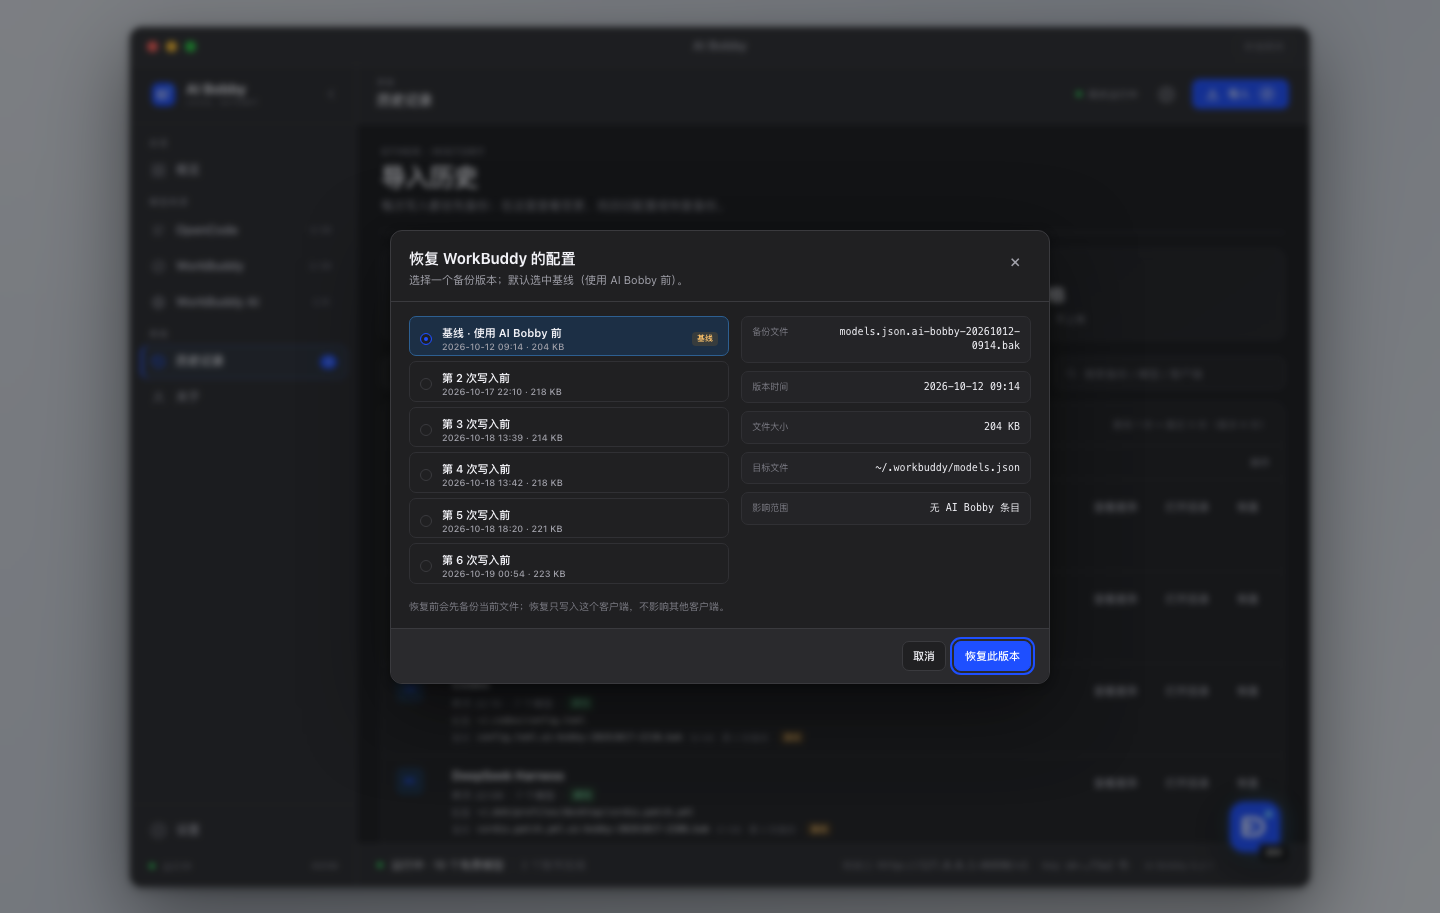
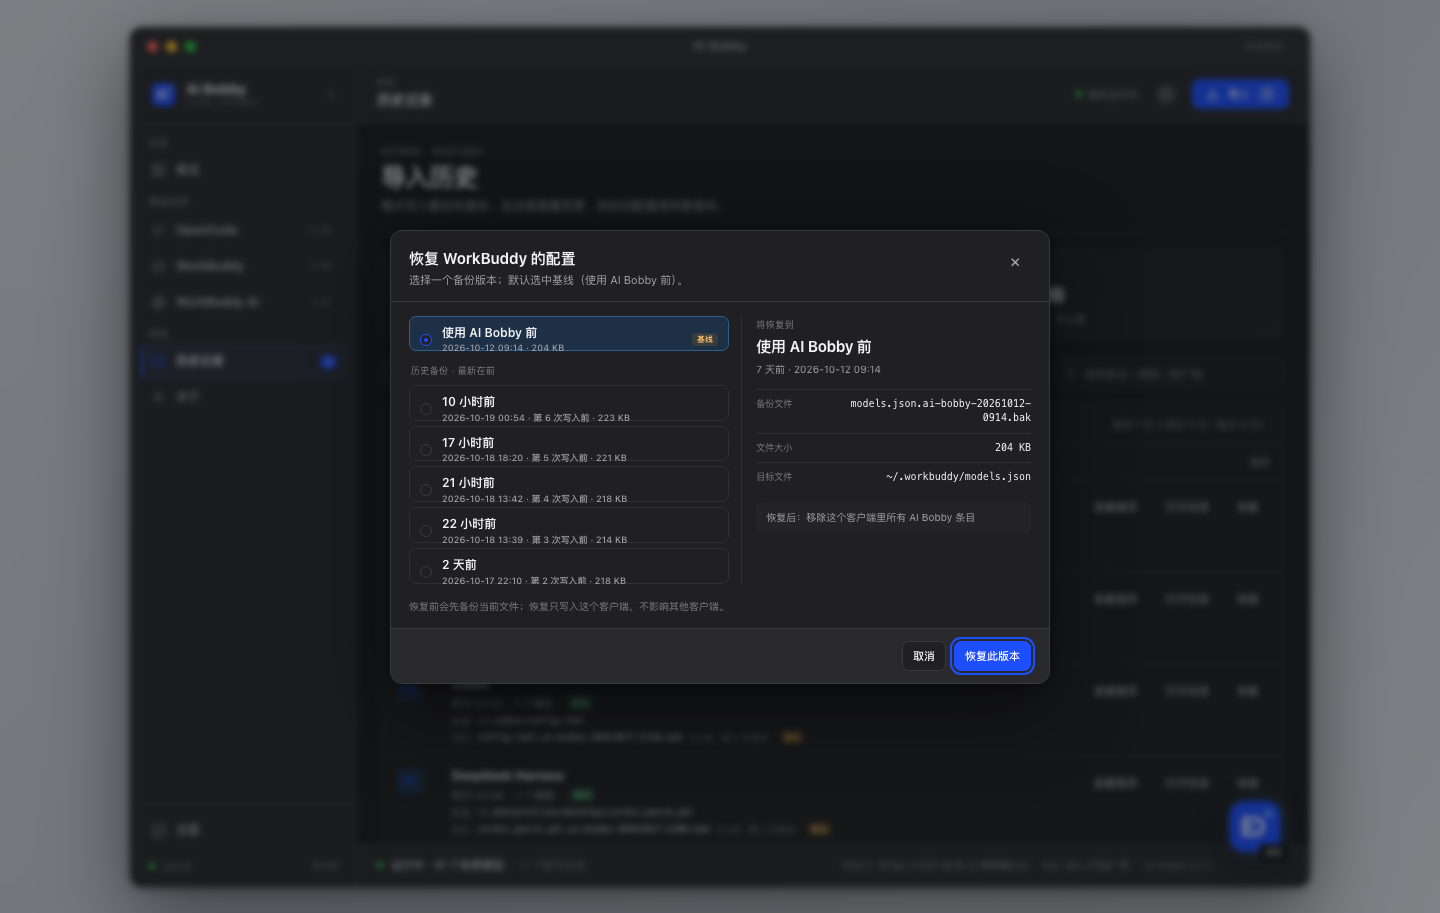
design(prototype): rework restore dialog hierarchy and relative times
- Pin the baseline, sort rolling backups newest-first under a divider, and
  lead each row with a friendly relative time while keeping the absolute
  timestamp as secondary information.
- Replace the boxed detail rows with a summary panel (将恢复到 + big title +
  time + key/value facts + outcome note), visually separated from the list so
  it no longer reads as more backup entries.
- Refresh the restore screenshot.

diff --git a/prototype/desktop/app.js b/prototype/desktop/app.js
@@ -570,14 +570,30 @@
     ],
   };
 
+  function relativeTime(at) {
+    const then = new Date(String(at).replace(' ', 'T')).getTime();
+    if (!Number.isFinite(then)) return '';
+    const minutes = Math.max(0, Math.round((Date.now() - then) / 60000));
+    if (minutes < 1) return '刚刚';
+    if (minutes < 60) return `${minutes} 分钟前`;
+    const hours = Math.round(minutes / 60);
+    if (hours < 24) return `${hours} 小时前`;
+    if (hours < 36) return '昨天';
+    return `${Math.round(hours / 24)} 天前`;
+  }
+
   function versionsFor(record) {
     const set = BACKUP_SETS[record.client] || BACKUP_SETS.workbuddy;
-    return set.map((version, index) => ({
+    const versions = set.map((version, index) => ({
       id: `${record.client}-v${index}`,
-      label: index === 0 ? '基线 · 使用 AI Bobby 前' : `第 ${index + 1} 次写入前`,
+      label: version.baseline ? '使用 AI Bobby 前' : `第 ${index + 1} 次写入前`,
+      relative: relativeTime(version.at),
       target: record.target,
       ...version,
     }));
+    const baseline = versions[0];
+    const rolling = versions.slice(1).sort((a, b) => String(b.at).localeCompare(String(a.at)));
+    return [baseline, ...rolling];
   }
 
   function openRestore(record) {
@@ -594,20 +610,37 @@
 
   function renderRestoreVersions() {
     const versions = state.restoreVersions;
-    $('#restore-versions').innerHTML = versions.map(version => `
+    const baseline = versions.find(version => version.baseline);
+    const rolling = versions.filter(version => !version.baseline);
+    const row = version => `
       <button type="button" class="restore-version${version.id === state.selectedVersion ? ' selected' : ''}" data-version="${version.id}" role="radio" aria-checked="${version.id === state.selectedVersion}">
         <span class="restore-radio" aria-hidden="true"></span>
-        <span><strong>${escapeHtml(version.label)}</strong><small>${escapeHtml(version.at)} · ${escapeHtml(version.size)}</small></span>
-        ${version.baseline ? '<span class="chip baseline">基线</span>' : '<span></span>'}
-      </button>`).join('');
+        <span class="restore-version-copy">
+          <strong>${escapeHtml(version.baseline ? version.label : version.relative)}</strong>
+          <small>${escapeHtml(version.at)}${version.baseline ? '' : ` · ${escapeHtml(version.label)}`} · ${escapeHtml(version.size)}</small>
+        </span>
+        ${version.baseline ? '<span class="chip baseline">基线</span>' : ''}
+      </button>`;
+    $('#restore-versions').innerHTML = [
+      baseline ? row(baseline) : '',
+      rolling.length > 0 ? '<div class="restore-divider">历史备份 · 最新在前</div>' : '',
+      ...rolling.map(row),
+    ].join('');
+
     const selected = versions.find(version => version.id === state.selectedVersion) || versions[0];
     if (!selected) return;
     $('#restore-details').innerHTML = `
-      <div class="restore-detail"><span>备份文件</span><code>${escapeHtml(selected.file)}</code></div>
-      <div class="restore-detail"><span>版本时间</span><strong>${escapeHtml(selected.at)}</strong></div>
-      <div class="restore-detail"><span>文件大小</span><strong>${escapeHtml(selected.size)}</strong></div>
-      <div class="restore-detail"><span>目标文件</span><code>${escapeHtml(selected.target)}</code></div>
-      <div class="restore-detail"><span>影响范围</span><strong>${selected.baseline ? '无 AI Bobby 条目' : `${selected.models} 个 AI Bobby 模型`}</strong></div>`;
+      <div class="restore-summary">
+        <span class="restore-summary-label">将恢复到</span>
+        <strong class="restore-summary-title">${escapeHtml(selected.baseline ? '使用 AI Bobby 前' : selected.label)}</strong>
+        <span class="restore-summary-when">${escapeHtml(selected.relative)} · ${escapeHtml(selected.at)}</span>
+        <dl class="restore-facts">
+          <div><dt>备份文件</dt><dd>${escapeHtml(selected.file)}</dd></div>
+          <div><dt>文件大小</dt><dd>${escapeHtml(selected.size)}</dd></div>
+          <div><dt>目标文件</dt><dd>${escapeHtml(selected.target)}</dd></div>
+        </dl>
+        <p class="restore-outcome">${selected.baseline ? '恢复后：移除这个客户端里所有 AI Bobby 条目' : `恢复后：写入 ${selected.models} 个 AI Bobby 模型（该次写入前的状态）`}</p>
+      </div>`;
   }
 
   function closeRestore() {

diff --git a/prototype/desktop/styles.css b/prototype/desktop/styles.css
@@ -1861,3 +1861,44 @@ a.music-album-card .album-arrow { margin-left: auto; color: var(--accent); font-
 @media (max-width: 760px) {
   .restore-body { grid-template-columns: 1fr; }
 }
+
+/* Restore dialog v2: list hierarchy + summary panel */
+.restore-details { padding-left: 14px; border-left: 1px solid var(--line-soft); }
+.restore-divider {
+  margin: 8px 2px 2px;
+  color: var(--faint);
+  font-size: 9px;
+  letter-spacing: 0.04em;
+}
+.restore-version-copy { min-width: 0; }
+.restore-version strong { font-size: 12px; }
+.restore-summary { display: flex; flex-direction: column; gap: 4px; padding-top: 2px; }
+.restore-summary-label { color: var(--faint); font-size: 9px; letter-spacing: 0.06em; }
+.restore-summary-title { color: var(--text); font-size: 15px; font-weight: 650; letter-spacing: -0.01em; }
+.restore-summary-when { color: var(--muted); font-size: 10px; }
+.restore-facts { margin: 8px 0 0; }
+.restore-facts > div {
+  display: flex;
+  justify-content: space-between;
+  gap: 14px;
+  padding: 7px 0;
+  border-top: 1px solid var(--line-soft);
+}
+.restore-facts dt { color: var(--faint); font-size: 9px; white-space: nowrap; }
+.restore-facts dd {
+  margin: 0;
+  min-width: 0;
+  color: var(--text);
+  font: 10px/1.45 var(--mono);
+  text-align: right;
+  overflow-wrap: anywhere;
+}
+.restore-outcome {
+  margin: 6px 0 0;
+  padding: 8px 10px;
+  border-radius: 6px;
+  background: var(--surface-2);
+  color: var(--muted);
+  font-size: 10px;
+  line-height: 1.5;
+}

diff --git a/prototype/desktop/README.md b/prototype/desktop/README.md
@@ -25,8 +25,9 @@ python3 -m http.server 8765 --bind 127.0.0.1
 - 音乐播放在点击歌曲后出现于右下角，作为全局单例播放器；可拖动、可关闭，不阻塞页面。
 - 历史记录：导入记录与备份合并为一张表，行内四行信息（客户端 / 日期·模型数·状态 / 配置文件 / 备份文件），
   操作为“查看差异 / 打开目录 / 恢复”（三个统一的 ghost 按钮），不再使用含义不清的“变更”；最早记录标“基线”。
-- 恢复弹窗列出该目标的所有备份（1 份基线 + 最近 5 份），默认选中基线（无 AI Bobby 配置），
-  切换版本时右侧明细同步变化。
+- 恢复弹窗：基线固定在最上，其余按时间倒序；备份时间用“10 小时前 / 2 天前”这类友好表达，
+  绝对时间作为次要信息；默认选中基线（无 AI Bobby 配置），右侧是“将恢复到”的摘要面板
+  （标题 + 时间 + 键值明细 + 恢复后影响），与左侧可点列表形成层级，不再是一堆并列卡片。
 - 按钮系统：默认（次要）白底描边、`primary` 主操作、`ghost` 行内低频操作；字号/高度/hover 只在样式表一处定义，
   页面内不再覆写。生产实现对应 shadcn/ui `Button` 的 `variant`。
 - 导入抽屉：客户端、分组、默认模型、变更预览；变更为**实时自动预览**，没有“预览”按钮；默认模型勾选文案写明只影响 Codex / Claude Code。
